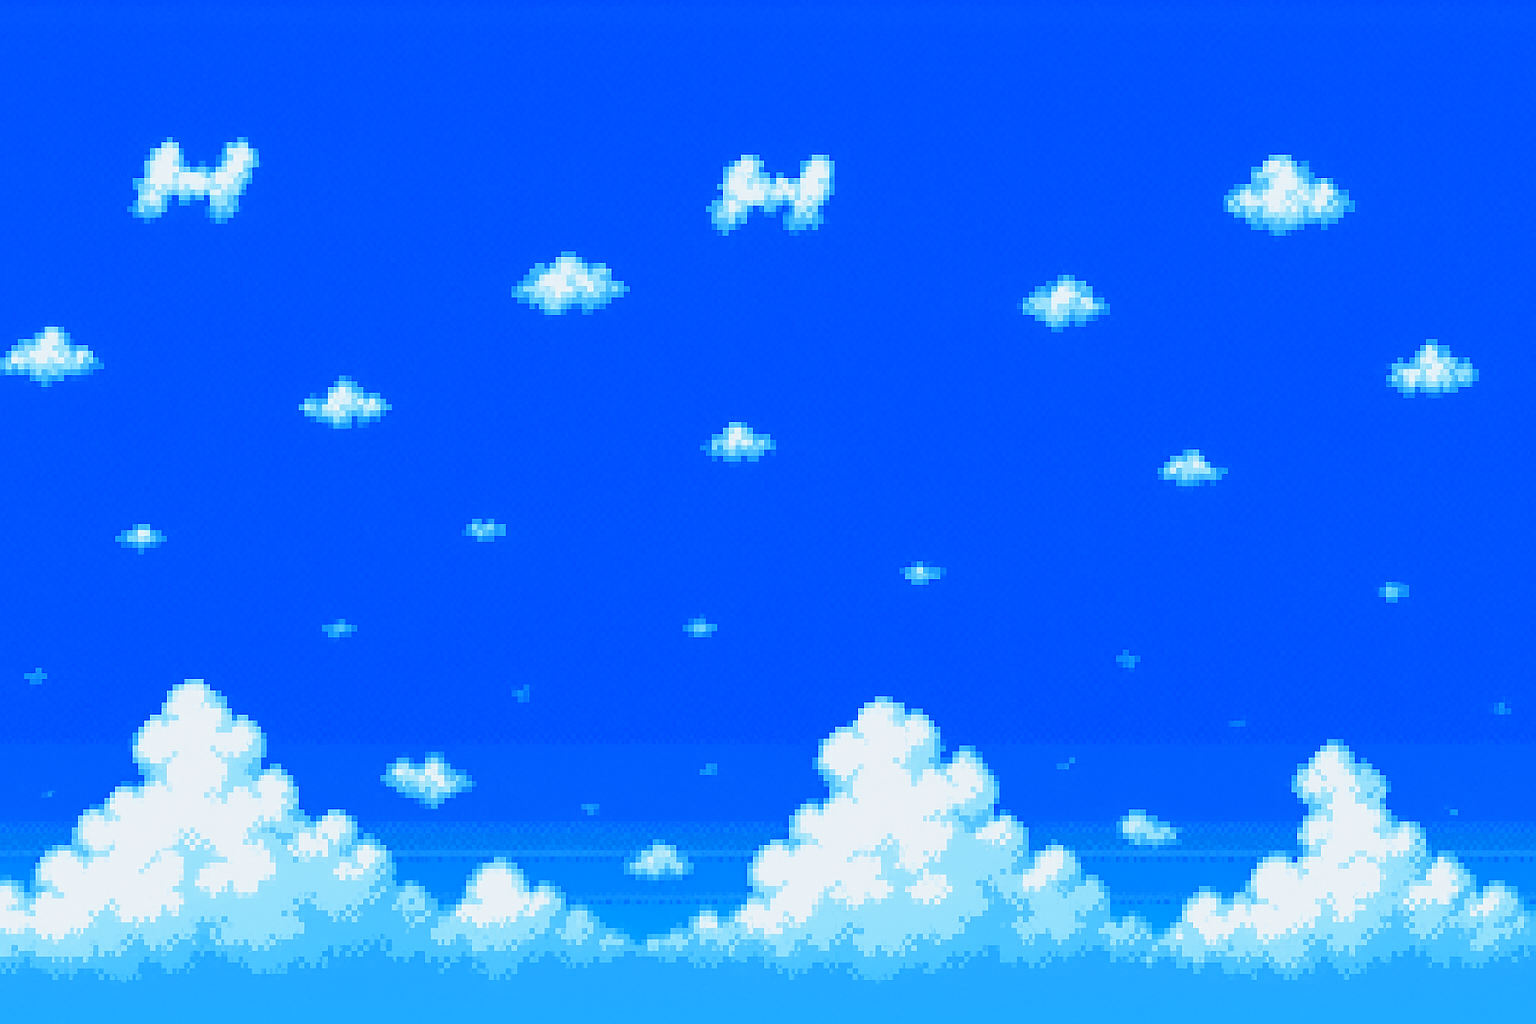
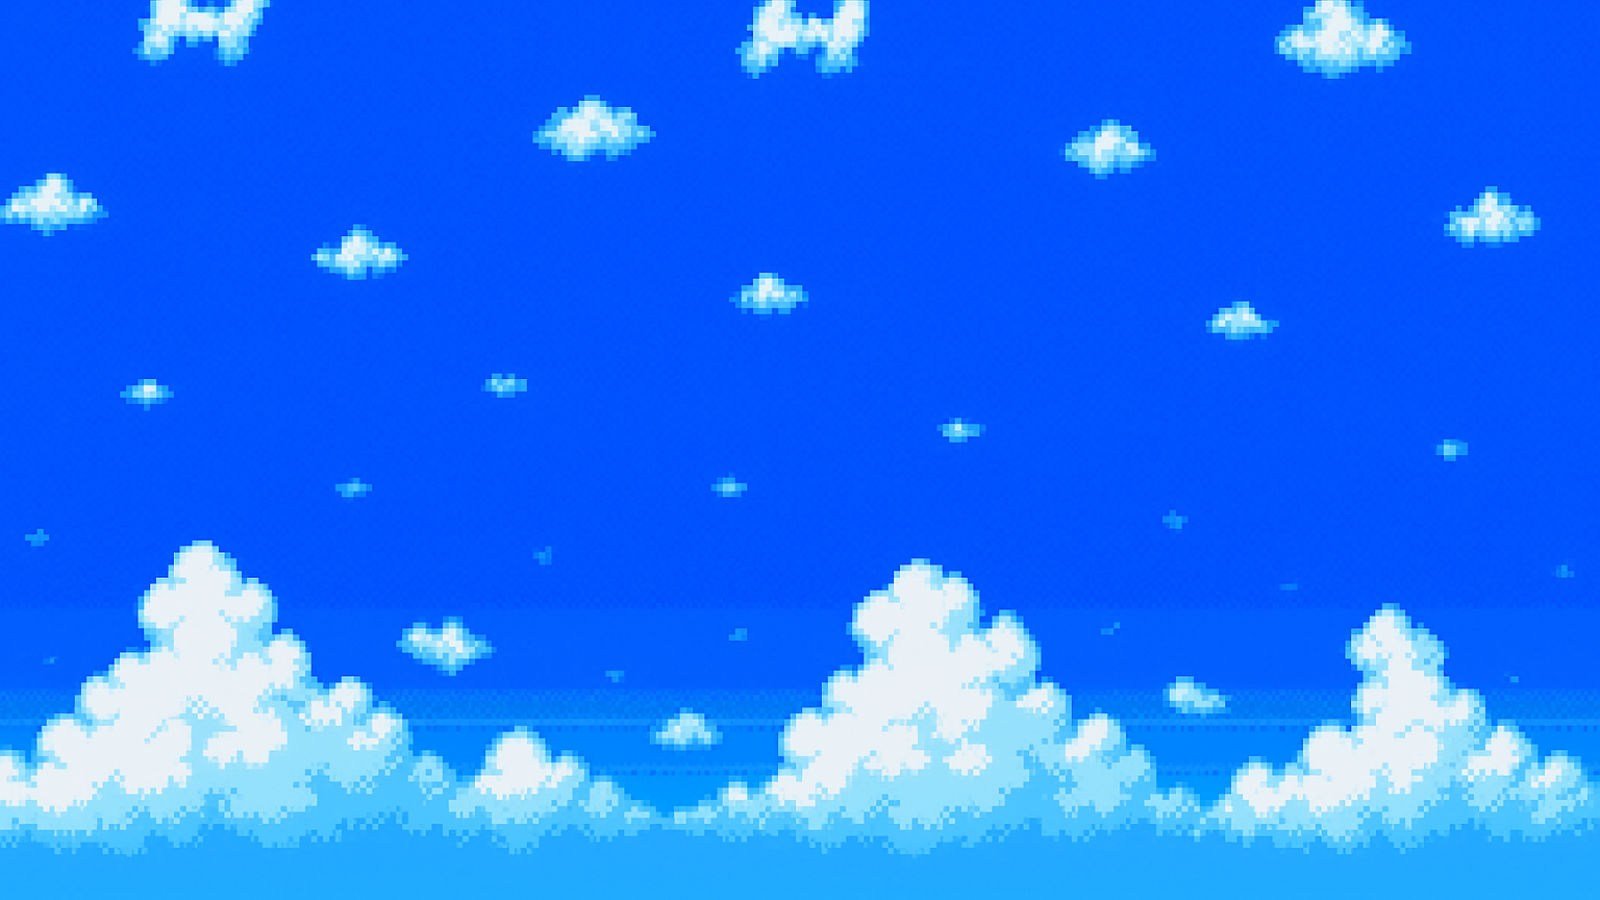
They fly?

diff --git a/Enemies.h b/Enemies.h
@@ -67,7 +67,8 @@ public:
 		enemySprite.setOrigin(frameRect.width / 2.0f, frameRect.height / 2.0f);
 	}
 
-	void move(int P_x, int P_y, int off_x, int off_y) override {
+	void move(int P_x, int P_y, int off_x, int off_y) override
+	{
 		if (isActive && proximityCheck(P_x + off_x, P_y)) {
 			if (P_x + off_x + 40 < x) {
 				isPlayerRight = false;
@@ -81,7 +82,8 @@ public:
 		enemySprite.setPosition(x - off_x, y);
 
 	}
-	bool proximityCheck(int P_x, int P_y) override {
+	bool proximityCheck(int P_x, int P_y) override 
+	{
 		proximity = false;
 		// Check if the player is within a certain distance
 		if (((P_y / 64 == y / 64) || (P_y / 64 == (y / 64) - 1)) &&
@@ -238,7 +240,8 @@ public:
 			projectileActive = false;
 		}
 		if (!isActive) return;
-		else {
+		else
+		{
 			animateSprite();
 		}
 
@@ -259,10 +262,7 @@ public:
 		enemySprite.setPosition(x - off_x, y);
 
 		// flip sprite to face movement
-		enemySprite.setScale(
-			direction < 0 ? -spriteScale : +spriteScale,
-			spriteScale
-		);
+		enemySprite.setScale(direction < 0 ? -spriteScale : +spriteScale,spriteScale);
 	}
 
 	void animateSprite() override
@@ -435,7 +435,224 @@ public:
 };
 class BatBrain : public Enemies
 {
-public:
-
 private:
+	float spriteScale;
+	float originX;            // where the bat first spawned
+	float minX, maxX;
+	float range;
+
+public:
+	BatBrain(int x, int y, char** lvl) : Enemies("Data/BatBrain.png", 32, 33)
+	{
+		hp = 3;
+		this->x = x;
+		this->y = y;
+		this->lvl = lvl;
+		isActive = true;
+		proximity = false;
+		speed = 2.5;
+		isPlayerRight = false;
+		direction = 1;
+		frameCount = 9;
+		enemySprite.setPosition(x, y);
+		spriteScale = 2.5;
+		enemySprite.setScale(spriteScale, spriteScale);
+		frameRect = sf::IntRect(0, 0, 31, 33);
+		enemySprite.setTextureRect(frameRect);
+		range = 200;
+		maxX = x + range;
+		minX = x - range;
+
+	}
+	void animateSprite() override
+	{
+		const int delay_ms = 100; // Delay in milliseconds for frame change
+
+		int frameWidths[9] = { 31, 28, 38, 33, 34, 37, 36, 36, 40 };
+		int frameOffset[9];
+
+		frameOffset[0] = 0;
+		//Offset for each itrect
+		for (int i = 1;i < 9;i++)
+		{
+			frameOffset[i] = frameOffset[i - 1] + frameWidths[i - 1];
+		}
+
+		if (animationClock.getElapsedTime().asMilliseconds() < delay_ms)
+			return;
+
+
+		currentFrame = (currentFrame + 1) % frameCount;
+		int w = frameWidths[currentFrame];
+		int l = frameOffset[currentFrame];
+
+		// update the rect
+		frameRect = sf::IntRect(l, 0, w, frameRect.height);
+		enemySprite.setTextureRect(frameRect);
+
+		// re-center origin on that new width
+		enemySprite.setOrigin(w * 0.5, frameRect.height * 0.5);
+		
+
+		animationClock.restart();
+	}
+
+
+	void move(int P_x, int P_y, int off_x, int off_y) 
+	{
+		if (!isActive) return;	
+		x += direction * speed;
+		// if we passed either bound, clamp & reverse
+		if (x < minX)
+		{
+			x = minX;
+			direction = +1;
+		}
+		else if (x > maxX)
+		{
+			x = maxX;
+			direction = -1;
+		}
+		// update sprite screen position
+		enemySprite.setPosition(x - off_x, y);
+
+		// flip sprite to face movement
+		enemySprite.setScale(direction < 0 ? +spriteScale : -spriteScale, spriteScale);
+
+	};
+	//virtual void update() = 0;
+	void draw(sf::RenderWindow& window)
+	{
+		if (isActive)
+		{
+			window.draw(enemySprite);
+		}
+
+	}
+	void takeDamage(int damage) {};
+
+	bool proximityCheck(int P_x, int P_y)
+	{
+		return false;
+	}
+	int giveDamage(int upVelocity, int P_x, int P_y, int off_x)
+	{
+		return 1;
+	}
+};
+
+
+
+
+
+
+
+
+class BuzzBomber : public Enemies
+{
+private:
+	float spriteScale;
+	float originX;            // where the bat first spawned
+	float minX, maxX;
+	float range;
+public:
+	BuzzBomber(int x, int y, char** lvl) : Enemies("Data/BuzzBomber.png", 47, 22)
+	{
+		hp = 5;
+		this->x = x;
+		this->y = y;
+		this->lvl = lvl;
+		isActive = true;
+		proximity = false;
+		speed = 3.4f;
+		isPlayerRight = false;
+		direction = 1;
+		frameCount = 4;
+		enemySprite.setPosition(x, y);
+		spriteScale = 2.5;
+		enemySprite.setScale(spriteScale, spriteScale);
+		frameRect = sf::IntRect(0, 0, 47, 22);
+		enemySprite.setTextureRect(frameRect);
+		range = 250;
+		maxX = x + range;
+		minX = x - range;
+
+	}
+	void animateSprite() override
+	{
+		const int delay_ms = 200; // Delay in milliseconds for frame change
+
+		int frameWidths[4] = { 47, 47, 48, 47 };
+		int frameOffset[4];
+
+		frameOffset[0] = 0;
+		//Offset for each itrect
+		for (int i = 1;i < 4;i++)
+		{
+			frameOffset[i] = frameOffset[i - 1] + frameWidths[i - 1];
+		}
+
+		if (animationClock.getElapsedTime().asMilliseconds() < delay_ms)
+			return;
+
+
+		currentFrame = (currentFrame + 1) % frameCount;
+		int w = frameWidths[currentFrame];
+		int l = frameOffset[currentFrame];
+
+		// update the rect
+		frameRect = sf::IntRect(l, 0, w, frameRect.height);
+		enemySprite.setTextureRect(frameRect);
+
+		// re-center origin on that new width
+		enemySprite.setOrigin(w * 0.5, frameRect.height * 0.5);
+	
+
+		animationClock.restart();
+	}
+
+
+	
+
+	void move(int P_x, int P_y, int off_x, int off_y) override
+	{
+		if (!isActive) return;
+		x += direction * speed;
+		// if we passed either bound, clamp & reverse
+		if (x < minX)
+		{
+			x = minX;
+			direction = +1;
+		}
+		else if (x > maxX)
+		{
+			x = maxX;
+			direction = -1;
+		}
+		// update sprite screen position
+		enemySprite.setPosition(x - off_x, y);
+
+		// flip sprite to face movement
+		enemySprite.setScale(direction < 0 ? +spriteScale : -spriteScale, spriteScale);
+	}
+
+	//virtual void update() = 0;
+	void draw(sf::RenderWindow& window)
+	{
+		if (isActive)
+		{
+			window.draw(enemySprite);
+		}
+
+	}
+	void takeDamage(int damage) {};
+
+	bool proximityCheck(int P_x, int P_y)
+	{
+		return false;
+	}
+	int giveDamage(int upVelocity, int P_x, int P_y, int off_x)
+	{
+		return 1;
+	}
 };

diff --git a/Source.cpp b/Source.cpp
@@ -28,7 +28,7 @@ int main()
 	window.setVerticalSyncEnabled(true);
 	window.setFramerateLimit(120);
 	sf::Texture BackgroundTex;
-	BackgroundTex.loadFromFile("Data/bg1.png");
+	BackgroundTex.loadFromFile("Data/bg5.png");
 	sf::Sprite BackgroundSprite(BackgroundTex);
 	BackgroundSprite.setScale(1.8, 1.2);
 	//BackgroundSprite.setPosition(100, 100);
@@ -72,7 +72,8 @@ int main()
 
 	CrabMeat crab(5500, 400, lvl);
 	//CrabMeat crab2(10550, 470, lvl);
-
+	BatBrain Bat(7000, 300, lvl);
+	BuzzBomber Buzz(10000, 100, lvl);
 
 	Coins.place();
 	diamonds.place();
@@ -92,6 +93,9 @@ int main()
 		m.draw(window);
 		m.animateSprite();
 		m.move(sprite.getX(), sprite.getY(), sprite.getOffsetX(), sprite.getOffsetY());
+		Bat.move(sprite.getX(), sprite.getY(), sprite.getOffsetX(), sprite.getOffsetY());
+		Buzz.move(sprite.getX(), sprite.getY(), sprite.getOffsetX(), sprite.getOffsetY());
+
 		crab.move(sprite.getX(), sprite.getY(), sprite.getOffsetX(), sprite.getOffsetY());
 		crab.draw(window);
 		// keep movement and drawing close to each other for better user experience :)
@@ -122,6 +126,10 @@ int main()
 		//crab2.draw(window);
 		//crab2.move(sprite.getX(), sprite.getY(), sprite.getOffsetX(), sprite.getOffsetY());
 
+		Bat.animateSprite();				
+		Bat.draw(window);
+		Buzz.animateSprite();
+		Buzz.draw(window);
 		//window.draw()
 
 		window.display();

diff --git a/Maps.h b/Maps.h
@@ -17,7 +17,8 @@ class Maps {
 public:
     Maps() {
         lvl = new char* [height];
-        for (int i = 0; i < height; i++) {
+        for (int i = 0; i < height; i++)
+        {
             lvl[i] = new char[width];
             // Initialize all cells to empty space
             for (int j = 0; j < width; j++) {
